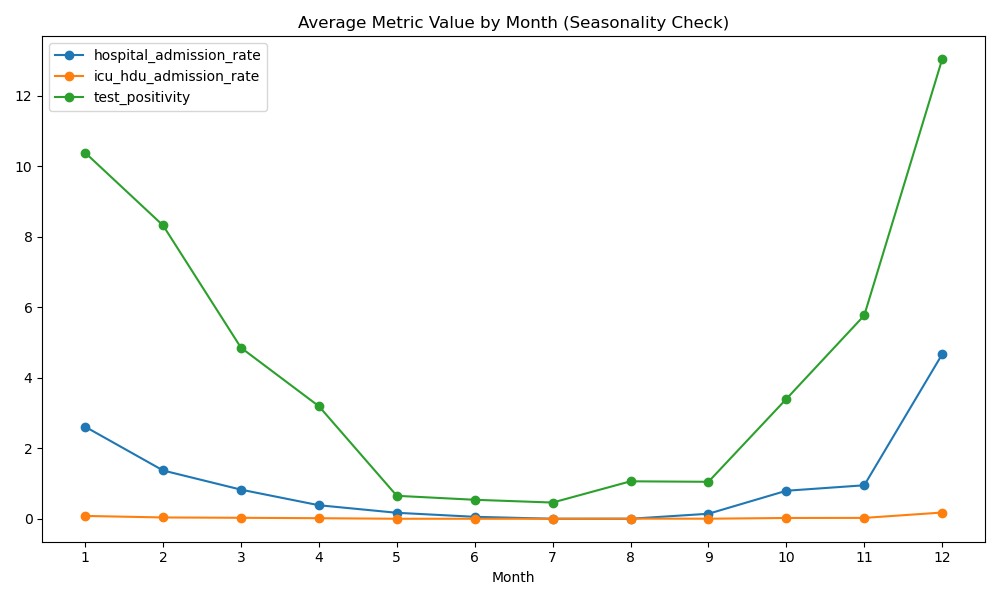
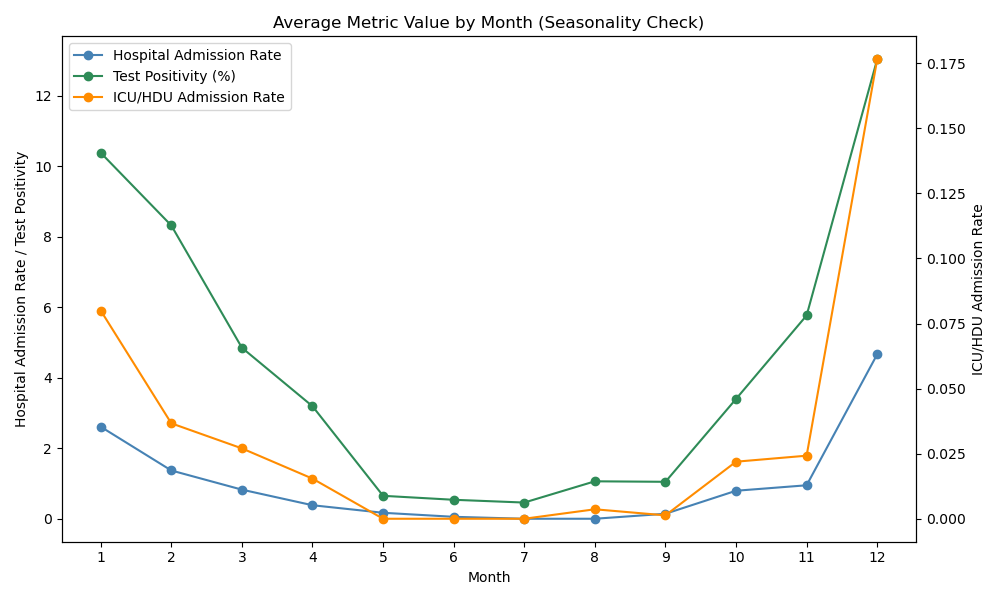
Fix ICU/HDU scaling, add outlier detection note with UKHSA cross-reference

diff --git a/scripts/03_exploratory_analysis.py b/scripts/03_exploratory_analysis.py
@@ -8,12 +8,12 @@ print("=== Missing Data ===")
 print(df.isna().sum())
 print()
 
-# --- 2. Basic summary stats (helps spot outliers) ---
+# Basic summary stats (helps spot outliers)
 print("=== Summary Statistics ===")
 print(df.describe())
 print()
 
-# --- 3. Simple outlier flagging using IQR ---
+# Simple outlier flagging using IQR 
 print("=== Potential Outliers (IQR method) ===")
 for col in ["hospital_admission_rate", "icu_hdu_admission_rate", "test_positivity"]:
     q1 = df[col].quantile(0.25)
@@ -26,7 +26,7 @@ for col in ["hospital_admission_rate", "icu_hdu_admission_rate", "test_positivit
 
 print()
 
-# --- 4. Visual check: time series for each metric ---
+# Visual check: time series for each metric 
 fig, axes = plt.subplots(3, 1, figsize=(12, 10), sharex=True)
 
 axes[0].plot(df["date"], df["hospital_admission_rate"], color="steelblue")
@@ -42,15 +42,26 @@ plt.tight_layout()
 plt.savefig("data/processed/exploratory_timeseries.png")
 print("Saved time series plot to data/processed/exploratory_timeseries.png")
 
-# --- 5. Seasonality check: average by month across all years ---
+# Seasonality check: average by month across all years (fixed scaling)
 df["month"] = df["date"].dt.month
 monthly_avg = df.groupby("month")[["hospital_admission_rate", "icu_hdu_admission_rate", "test_positivity"]].mean()
 
-fig2, ax2 = plt.subplots(figsize=(10, 6))
-monthly_avg.plot(ax=ax2, marker="o")
-ax2.set_title("Average Metric Value by Month (Seasonality Check)")
-ax2.set_xlabel("Month")
-ax2.set_xticks(range(1, 13))
+fig2, ax1 = plt.subplots(figsize=(10, 6))
+ax1.plot(monthly_avg.index, monthly_avg["hospital_admission_rate"], marker="o", color="steelblue", label="Hospital Admission Rate")
+ax1.plot(monthly_avg.index, monthly_avg["test_positivity"], marker="o", color="seagreen", label="Test Positivity (%)")
+ax1.set_xlabel("Month")
+ax1.set_ylabel("Hospital Admission Rate / Test Positivity")
+ax1.set_xticks(range(1, 13))
+
+ax2 = ax1.twinx()
+ax2.plot(monthly_avg.index, monthly_avg["icu_hdu_admission_rate"], marker="o", color="darkorange", label="ICU/HDU Admission Rate")
+ax2.set_ylabel("ICU/HDU Admission Rate")
+
+lines1, labels1 = ax1.get_legend_handles_labels()
+lines2, labels2 = ax2.get_legend_handles_labels()
+ax1.legend(lines1 + lines2, labels1 + labels2, loc="upper left")
+
+plt.title("Average Metric Value by Month (Seasonality Check)")
 plt.tight_layout()
 plt.savefig("data/processed/exploratory_seasonality.png")
 print("Saved seasonality plot to data/processed/exploratory_seasonality.png")

diff --git a/README.md b/README.md
@@ -1,12 +1,21 @@
 # Influenza Surveillance Dashboard Project
 Analysis of UKHSA influenza surveillance data for the East Midlands, looking at test positivity, hospital admissions, and ICU/HDU admissions.
 
-## Data Availability Notes
+## Data Availability 
 - Test positivity: complete coverage, 2017 - present
 - ICU/HDU admission rate: complete coverage, 2020 - present
 - Hospital admission rate: only available 2020-09-28 to 2024-05-13 (reporting appears to have stopped after this date)
 
 The combined "complete overlap" dataset is limited to the hospital admission rate's timeframe (up to 2024-05-13). Test positivity and ICU/HDU admission data continue beyond this and could be explored separately in future work. 
+
+## Outlier Detection
+Standard IQR-based potential outlier detection flagged a notable number of points across all three metrics: 16 for hospital admissions, 43 for ICU/HCU admissions, and 58 for test positivity. 
+
+Visual inspection of the time series confirms these are not data quality issues. They correspond to expected winter flu season peaks, which recur predictably every year. IQR methods assume a roughly stable distribution and are not well suited to inherently seasonal data like this. 
+
+A seasonally-aware method e.g. comparing each point to the same calendar week in other years would be more appropriate for genuine anomaly detection in this dataset 
+
+Cross-referencing with [UKHSA's Winter 2022 to 2023 seasonal respiratory surveillance report](https://www.gov.uk/government/statistics/surveillance-of-influenza-and-other-seasonal-respiratory-viruses-in-the-uk-winter-2022-to-2023) confirms the largest spike in this dataset (hospital admissions and ICU/HDU admissions both peaking around week 51 2022) matches a nationally-documented, unusually severe flu season, not a data anomaly.
 
 ## Progress
 - [x] Explored UKHSA API and confirmed East Midlands influenza data availability
